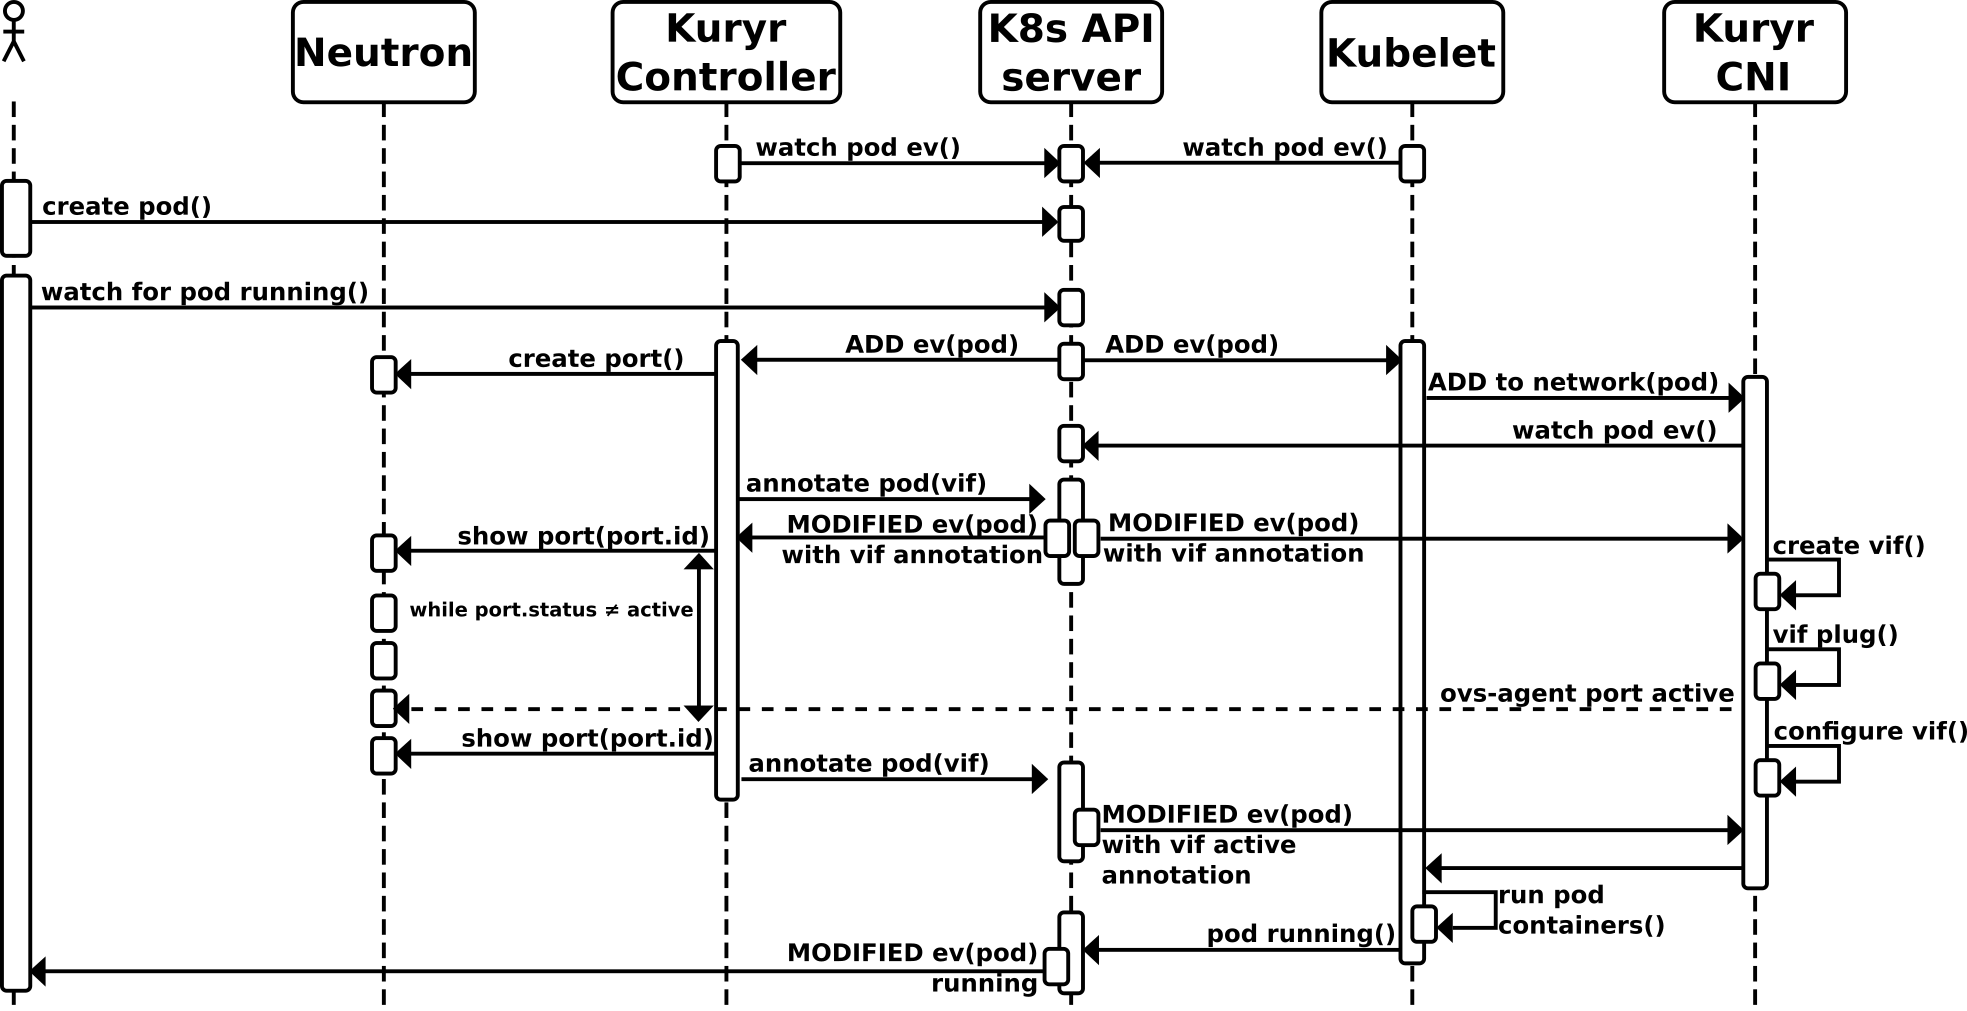
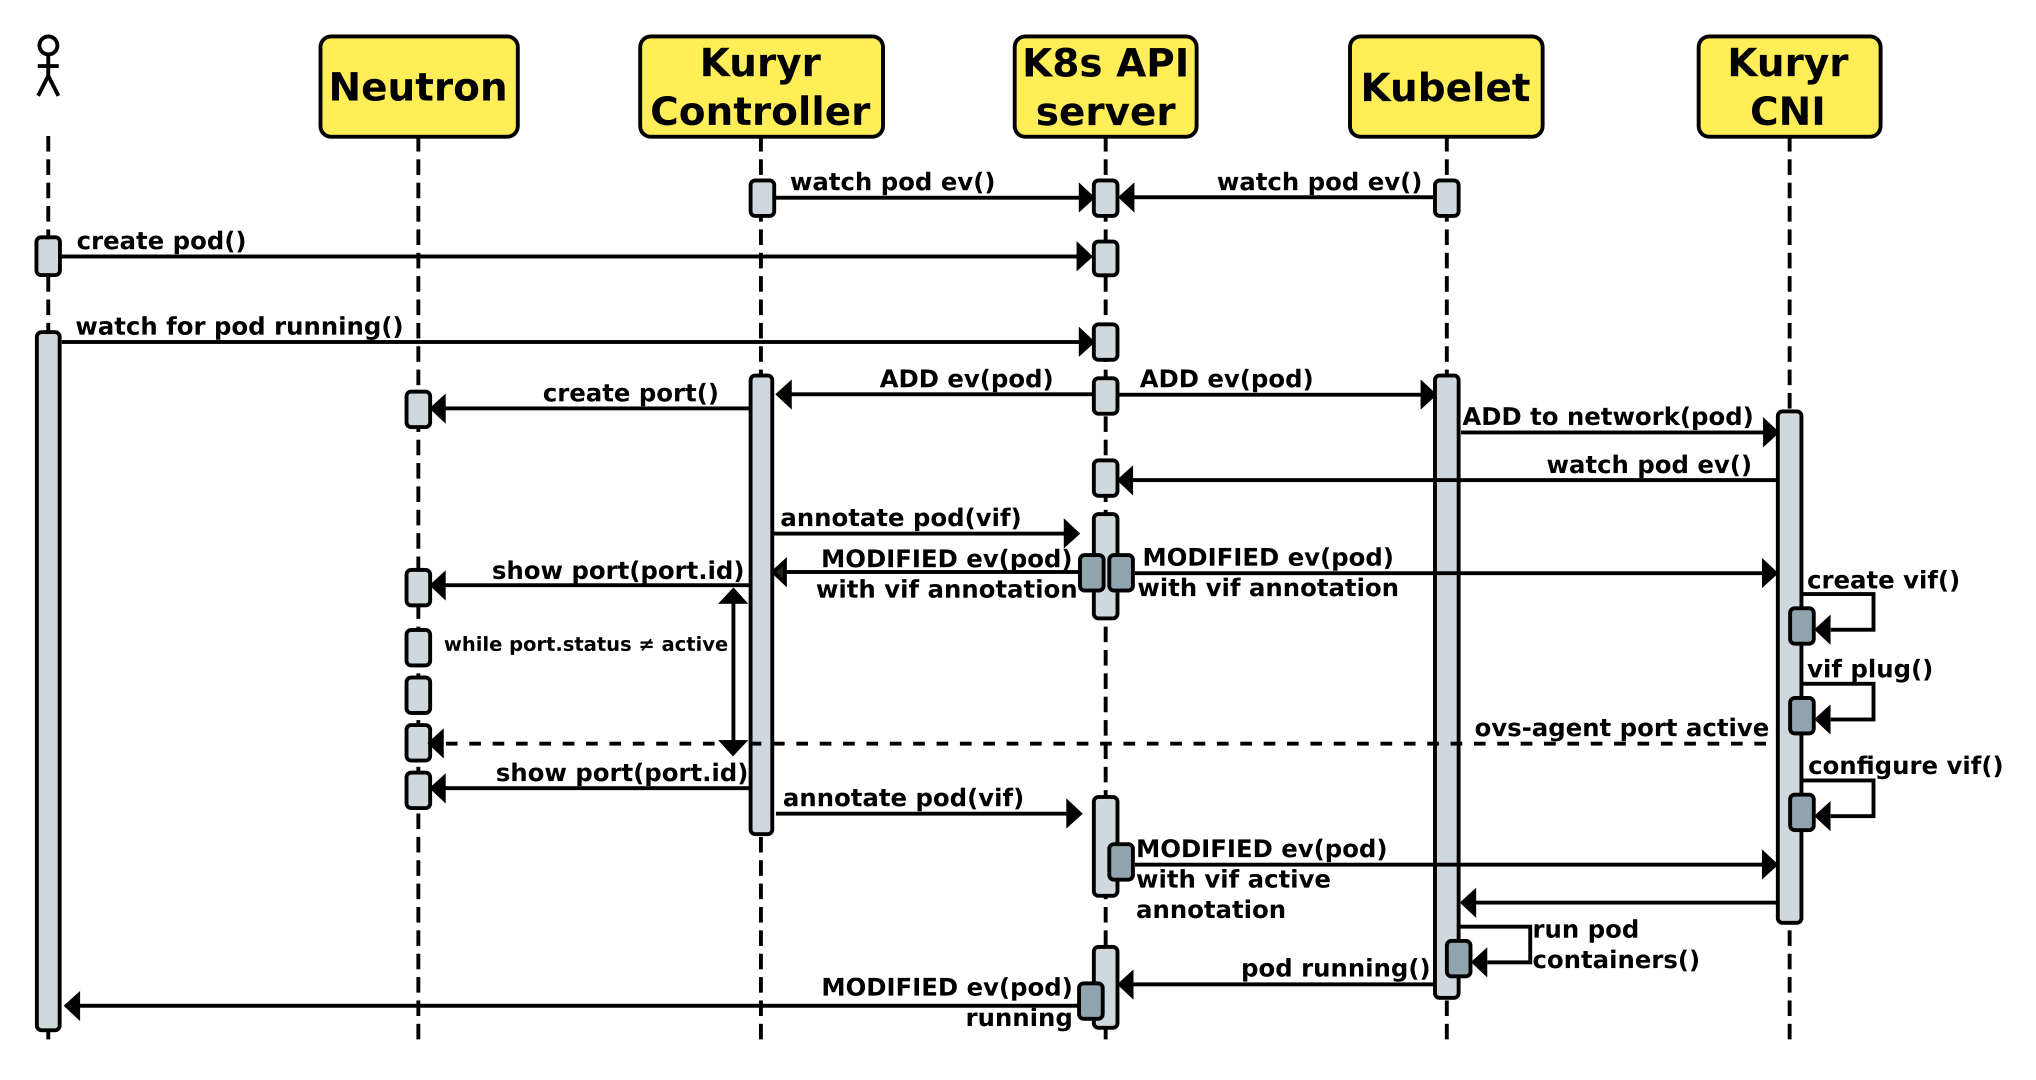
docs: Fix image rendering
The Pod creation flow was color-less and the images were rendered too
wide relative to the text. This fixes it while still allowing for the
images to be clicked to be seen in full size.

diff --git a/doc/source/devref/kuryr_kubernetes_design.rst b/doc/source/devref/kuryr_kubernetes_design.rst
@@ -42,9 +42,10 @@ CNI driver is responsible for binding kubernetess pods on worker nodes into
 Neutron ports ensuring requested level of isolation.
 Please see below the component view of the integrated system:
 
-.. image:: https://raw.githubusercontent.com/openstack/kuryr-kubernetes/master/doc/images/kuryr_k8s_components.png
+.. image:: ../../images/kuryr_k8s_components.png
     :alt: integration components
     :align: center
+    :width: 100%
 
 Design Principles
 -----------------
@@ -118,9 +119,10 @@ affecting other Handlers (of the current and other events).
 Events of the same group (same K8s object) are handled sequentially in the
 order arrival. Events of different K8s objects are handled concurenlty.
 
-.. image:: https://raw.githubusercontent.com/openstack/kuryr-kubernetes/master/doc/images/controller_pipeline.png
+.. image:: ../..//images/controller_pipeline.png
     :alt: controller pipeline
     :align: center
+    :width: 100%
 
 ResourceEventHandler
 ~~~~~~~~~~~~~~~~~~~~
@@ -182,7 +184,7 @@ In the cases when Neutron initially creates port in ‘Down’ state, CNI driver
 will plug the Pod, but will have to watch the Pod annotations for vif state
 change to ‘Active’ before returning the control to the caller.
 
-.. image:: https://raw.githubusercontent.com/openstack/kuryr-kubernetes/master/doc/images/pod_creation_flow.png
+.. image:: ../../images/pod_creation_flow.png
     :alt: Controller-CNI interaction
     :align: center
-
+    :width: 100%
